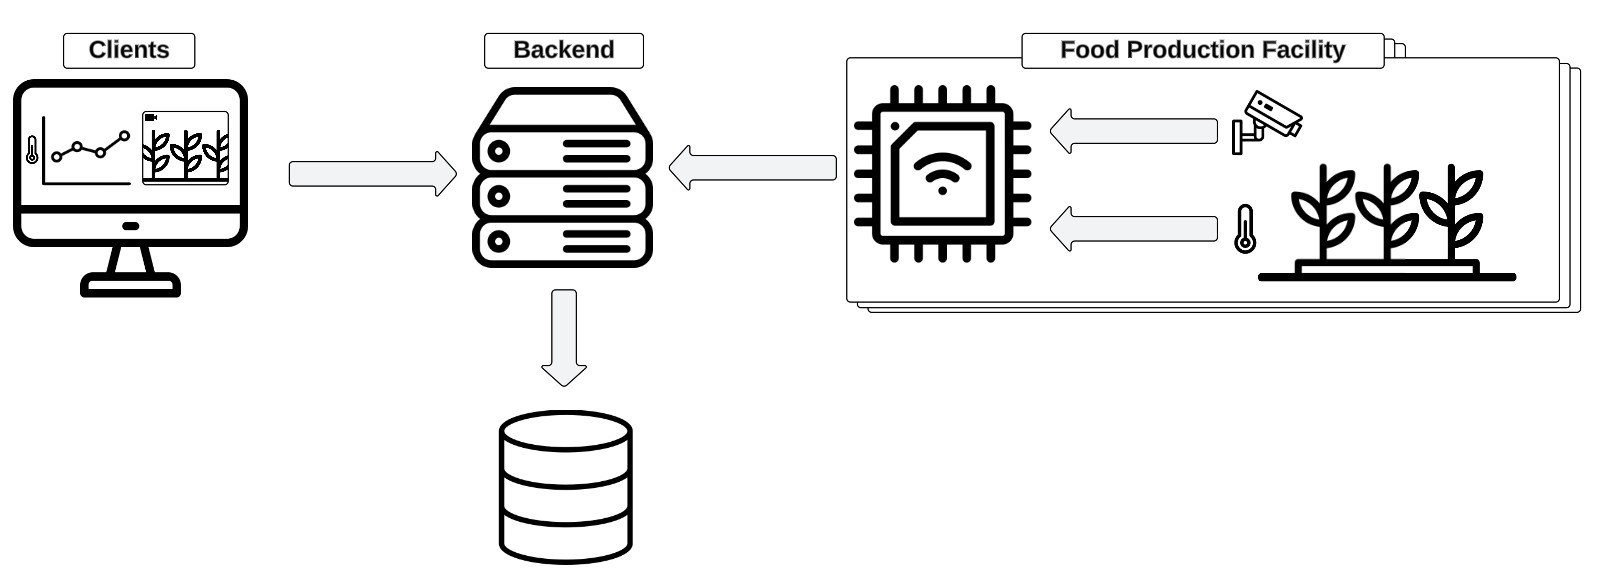
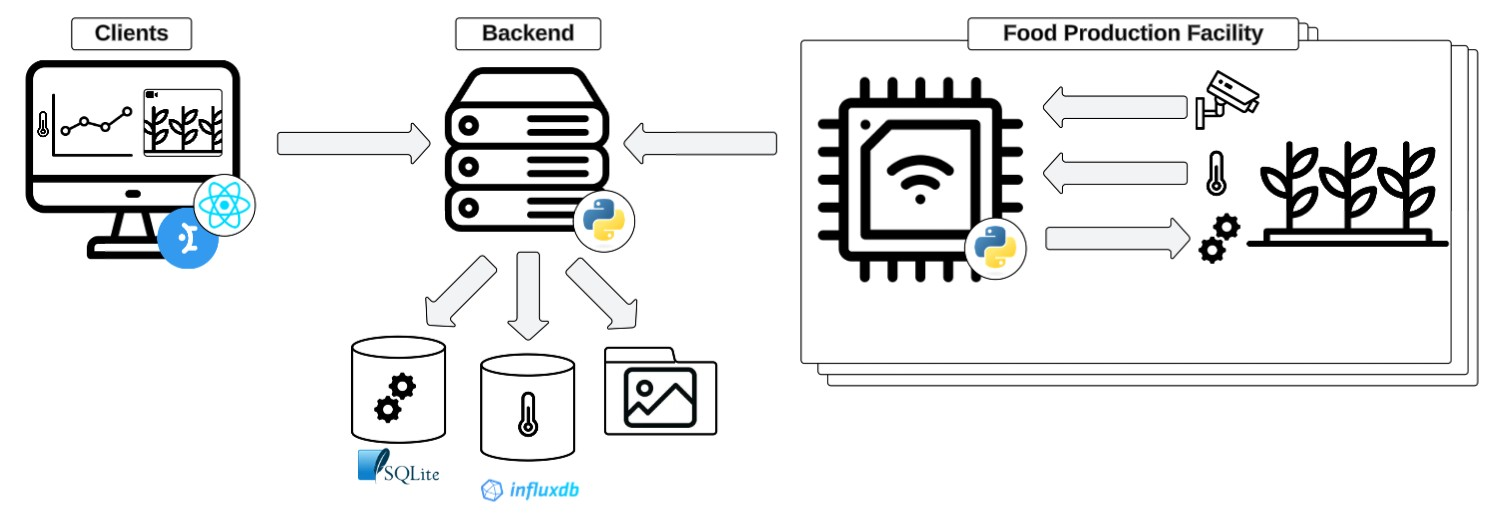
documentation update

Changed region(s): [[0.0, 0.031, 1.0, 0.9922], [0.2758, 0.5581, 0.3065, 0.5891]]

diff --git a/README.md b/README.md
@@ -50,6 +50,8 @@ Key features include:
 accessible through the web application.
 * Harvest Documentation: Log and track harvests for each plant directly from the frontend interface.
 * Data Visualization: Visualize sensor data with intuitive graphs and charts.
+* Controllable Action: To control the FPF you can add controllable actions which can perform actions on hardware which is reachable via network.
+* Weather forecast: You can configure a location for your FPF for which a weather forecast will be gathered.
 * Media Display: View and manage captured images and livestreams for real-time monitoring.
 
 
